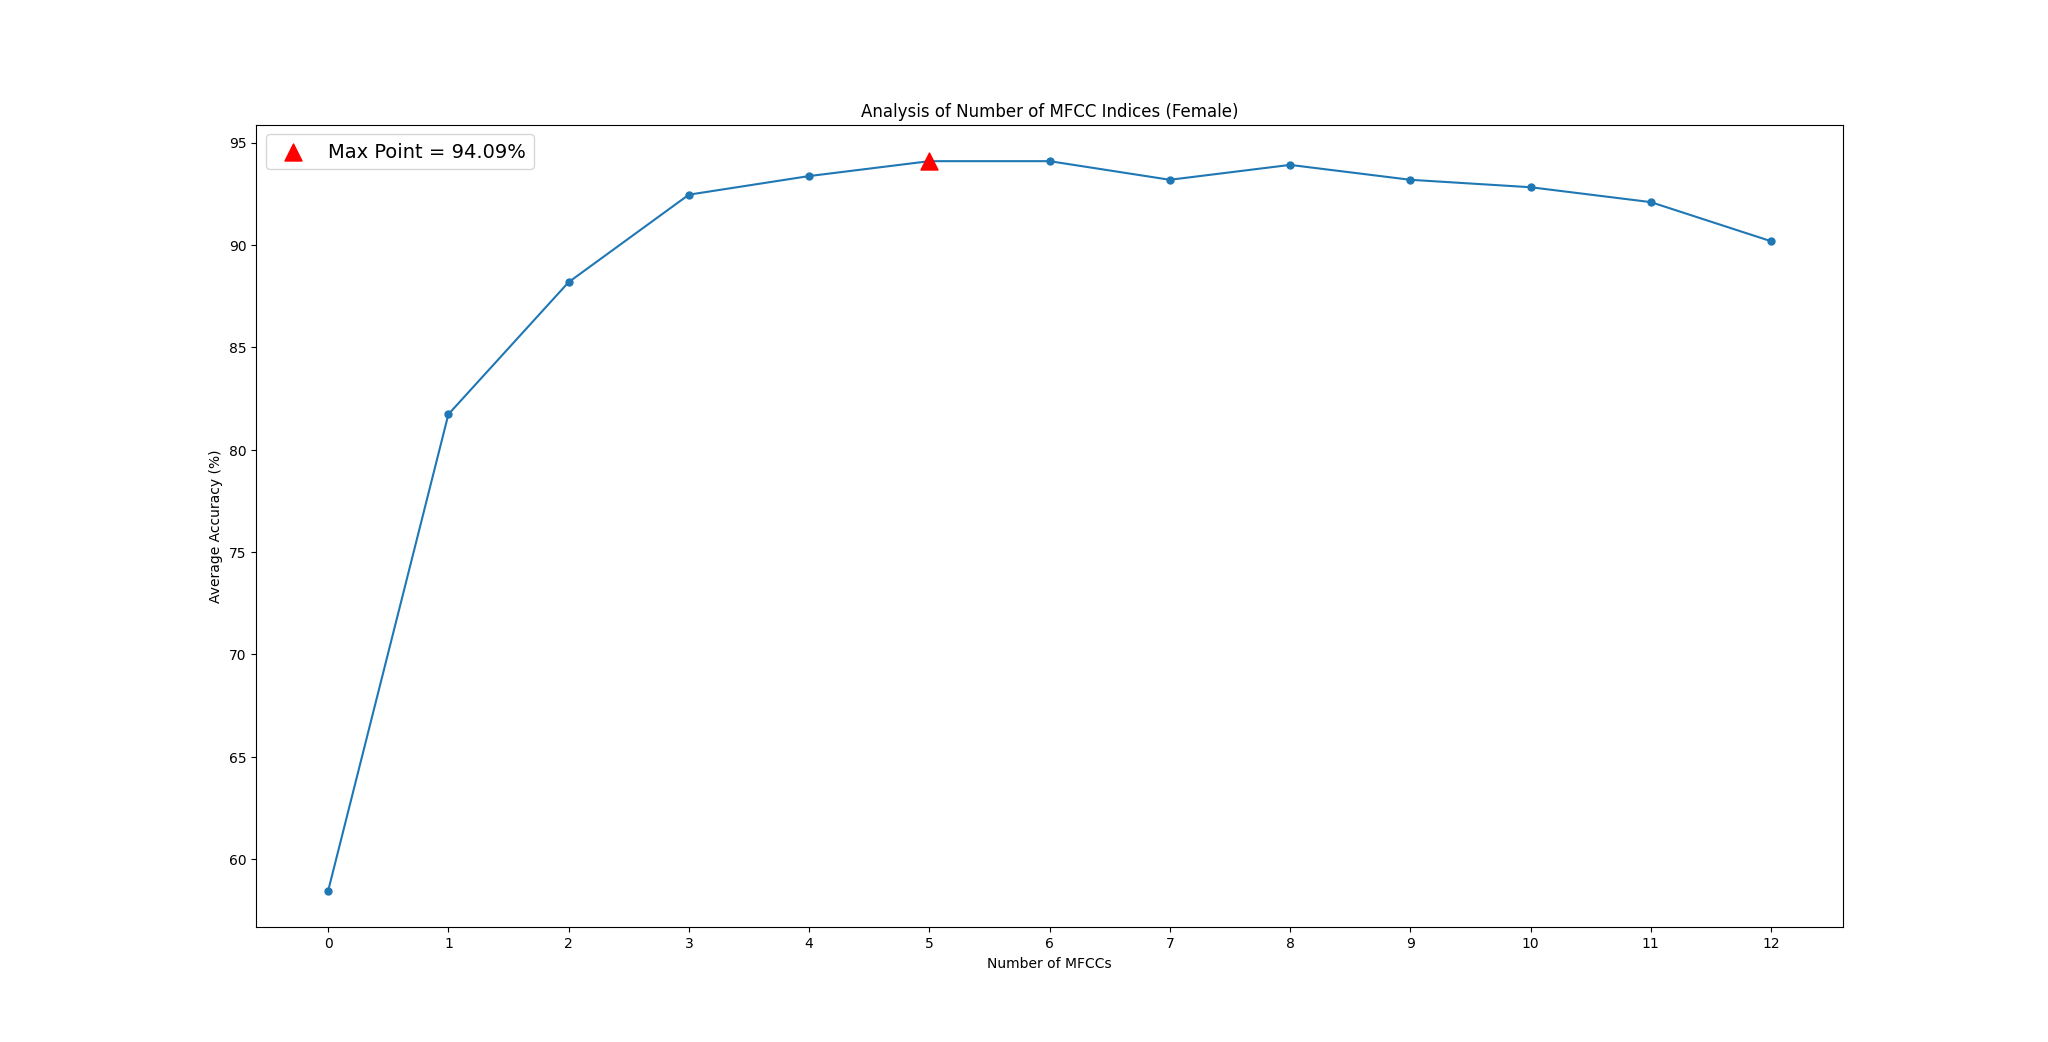
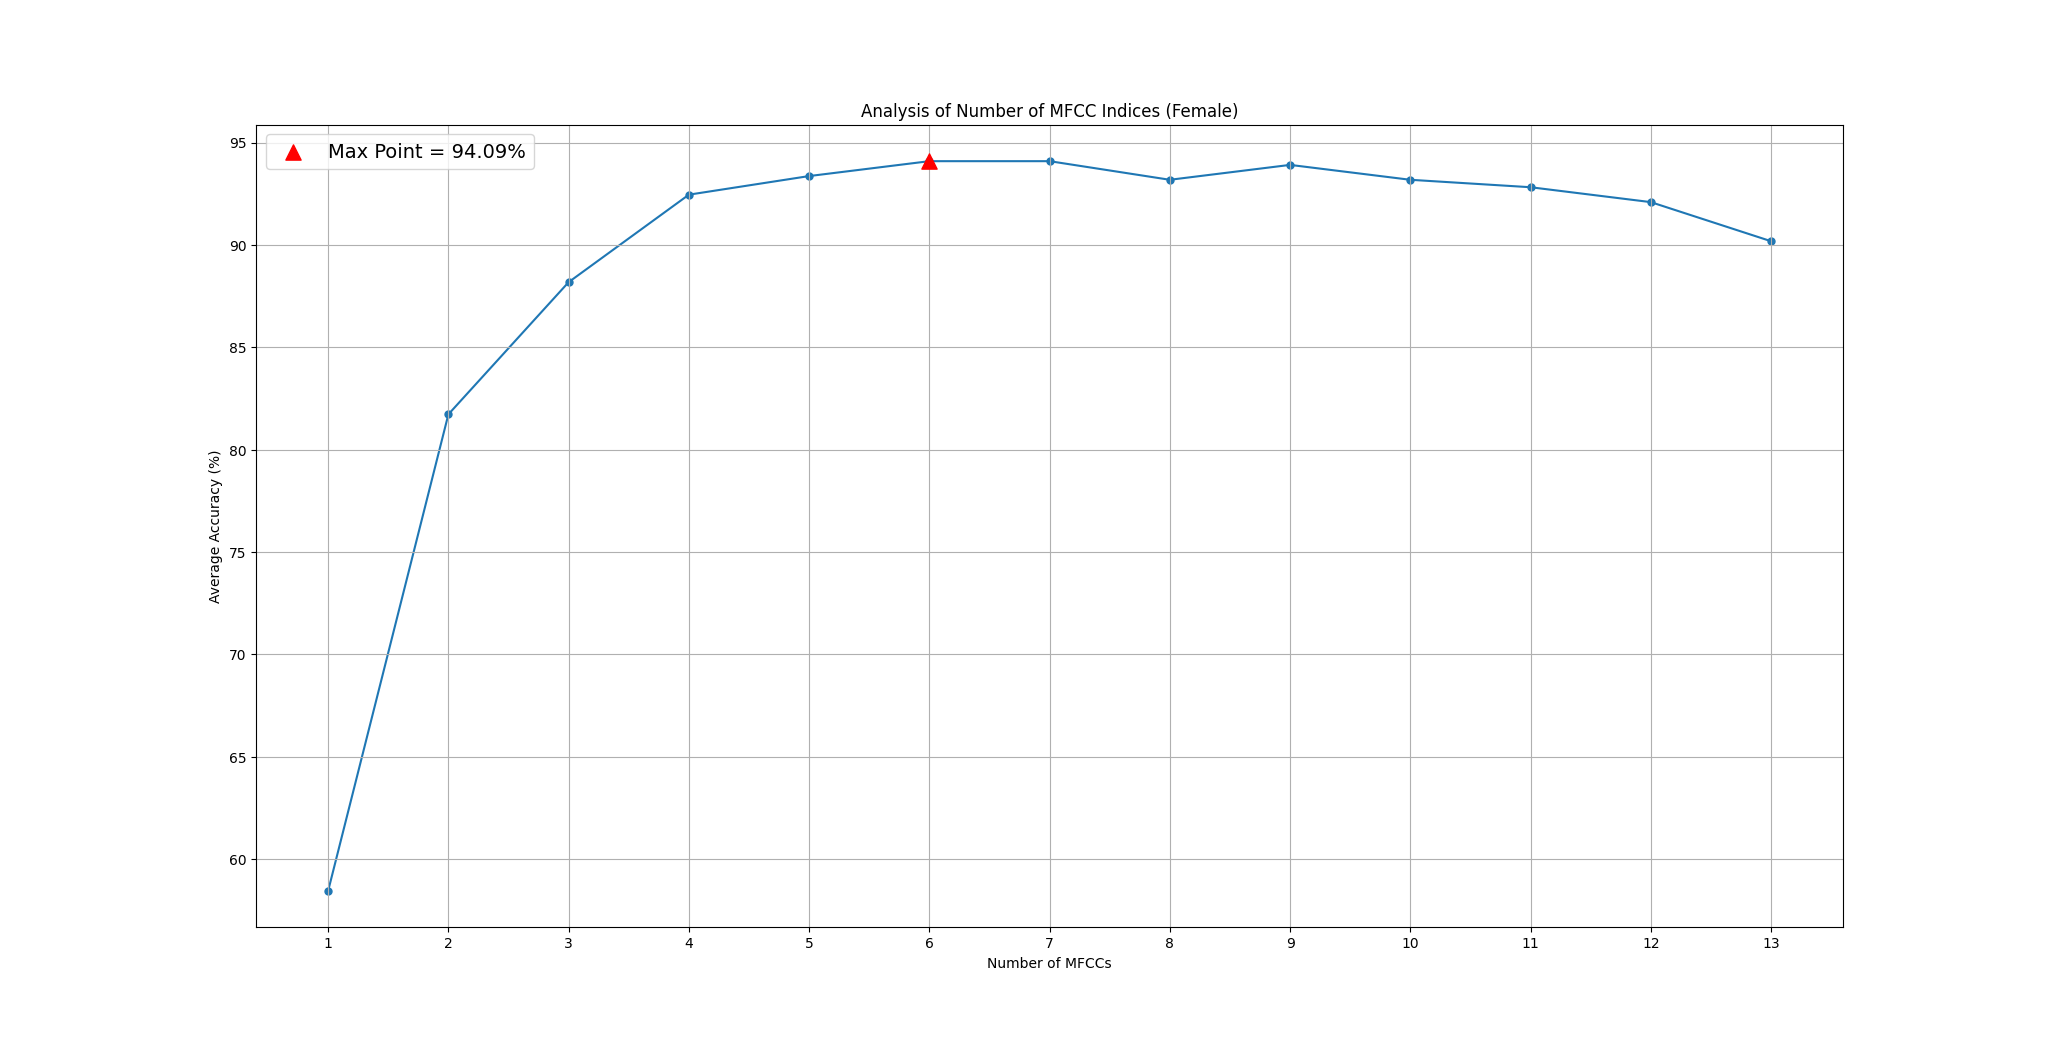
Add gender separation

diff --git a/Classifier.py b/Classifier.py
@@ -1,4 +1,6 @@
 import time
+from pprint import pprint
+
 import numpy as np
 from matplotlib import pyplot as plt
 from matplotlib.pyplot import colormaps
@@ -6,18 +8,18 @@ from matplotlib.pyplot import colormaps
 from GMM import GaussianMixtureModel
 from GradientColorMapper import GradientColorMapper
 
-# MAX_CORRECT = 220
-
 
 class Classifier:
     def __init__(self, training_data, hyperparams):
-        self.training_data = training_data.filter_by_mfccs(hyperparams["mfcc_indexes"])
+        self.training_data_M = training_data.filter_by_gender("M").filter_by_mfccs(hyperparams["mfcc_indexes_M"])
+        self.training_data_F = training_data.filter_by_gender("F").filter_by_mfccs(hyperparams["mfcc_indexes_F"])
         self.hyperparams = hyperparams
         self.gmms = self.generate_models()
+        pprint(self.gmms["M"][0])
 
-    def _compute_likelihoods(self, utterance):
+    def _compute_likelihoods(self, utterance, gender):
         ret = []
-        for i, gmm in enumerate(self.gmms):
+        for i, gmm in enumerate(self.gmms[gender]):
             sums = []
             for k in range(self.hyperparams["k_mapping"][i]):
                 pi = gmm[k]["pi"]
@@ -43,29 +45,37 @@ class Classifier:
 
         return ret
 
-    def _get_max_likelihood(self, utterance):
-        return np.argmax(self._compute_likelihoods(utterance))
+    def _get_max_likelihood(self, utterance, gender):
+        return np.argmax(self._compute_likelihoods(utterance, gender))
 
     def generate_models(self):
-        GMM = GaussianMixtureModel(self.training_data, self.hyperparams)
-        return GMM.get_gmms()
+        hyperparams_M = self.hyperparams.copy()
+        hyperparams_M["mfcc_indexes"] = self.hyperparams["mfcc_indexes_M"]
+        hyperparams_F = self.hyperparams.copy()
+        hyperparams_F["mfcc_indexes"] = self.hyperparams["mfcc_indexes_F"]
+        ret = {
+            "M": GaussianMixtureModel(self.training_data_M, hyperparams_M).get_gmms(),
+            "F": GaussianMixtureModel(self.training_data_F, hyperparams_F).get_gmms()
+        }
+        return ret
 
     def confusion_row(self, testing_data, digit):
         ret = [0] * 10
         data = testing_data.filter_by_digit(digit)
         for utterance in data:
-            ret[self._get_max_likelihood(utterance)] += 1
+            ret[self._get_max_likelihood(utterance, utterance.gender)] += 1
         return ret
 
     def confusion(self, testing_data, show_plot=True, show_timing=False):
         MAX_CORRECT = round(len(testing_data.get()) / 10)
-        testing_data = testing_data.filter_by_mfccs(self.hyperparams["mfcc_indexes"])
+        testing_data_M = testing_data.filter_by_gender("M").filter_by_mfccs(self.hyperparams["mfcc_indexes_M"])
+        testing_data_F = testing_data.filter_by_gender("F").filter_by_mfccs(self.hyperparams["mfcc_indexes_F"])
         if show_timing:
             print("Generating confusion matrix...")
         confusion_matrix = [[0 for _ in range(10)] for _ in range(10)]
         for digit in range(10):
             start_time = time.time()
-            confusion_matrix[digit] = self.confusion_row(testing_data, digit)
+            confusion_matrix[digit] = [a + b for a, b in zip(self.confusion_row(testing_data_M, digit), self.confusion_row(testing_data_F, digit))]
             end_time = time.time()
             if show_timing:
                 print(f"Generated row {str(digit)} after " + "{:.2f}".format(round(end_time - start_time, 2)) + " seconds")

diff --git a/main.py b/main.py
@@ -229,17 +229,18 @@ def test_mfcc_combinations(hyperparams, training, testing):
                          [87.72727272727272, [0, 2, 3, 4, 5, 6, 7, 8, 9, 10, 12]],
                          [87.0909090909091, [0, 2, 3, 4, 5, 6, 7, 8, 9, 10, 11, 12]],
                          [84.81818181818181, [0, 1, 2, 3, 4, 5, 6, 7, 8, 9, 10, 11, 12]]]
-    # accuracies = male_accuracies
+    # accuracies = female_accuracies
     pprint(accuracies)
-    x = [i for i in range(13)]
+    x = [i + 1 for i in range(13)]
     y = [accuracy[0] for accuracy in accuracies]
     max_index = y.index(max(y))
     plt.figure()
     plt.plot(x, y, marker='o', zorder=1, markersize=5)
-    plt.scatter(max_index, y[max_index], color='red', marker='^', label='Max Point = ' + str(round(max(y), 2)) + "%", zorder=2, s=150)
+    plt.scatter(max_index + 1, y[max_index], color='red', marker='^', label='Max Point = ' + str(round(max(y), 2)) + "%", zorder=2, s=120)
+    plt.grid(True)
     plt.xlabel("Number of MFCCs")
     plt.ylabel("Average Accuracy (%)")
-    plt.title("Analysis of Number of MFCC Indices")
+    plt.title("Analysis of Number of MFCC Indices (Female)")
     plt.legend(loc="upper left", fontsize=14)
     plt.xticks(x)
 
@@ -269,6 +270,8 @@ if __name__ == '__main__':
     all_mfccs = [i for i in range(13)]
 
     hyperparameters = {
+        "mfcc_indexes_M": [0, 2, 3, 4, 6, 7, 8, 9, 10, 12],
+        "mfcc_indexes_F": [1, 2, 4, 6, 7, 10],
         "mfcc_indexes": [1, 2, 4, 5, 6, 7, 8, 10, 12],
         "use_kmeans": False,
         "covariance_type": "full",
@@ -297,7 +300,6 @@ if __name__ == '__main__':
     # test_mfcc_combinations(hyperparameters, training_data, testing_data)
     # test_mfcc_combinations(hyperparameters, female_train, female_test)
     print(Classifier(training_data, hyperparameters).confusion(testing_data, show_plot=True, show_timing=True))
-    # print(Classifier(female_train, hyperparameters).confusion(female_test, show_plot=True, show_timing=True))
     # make_plots_part_a(training_data)
     plt.show()
 
